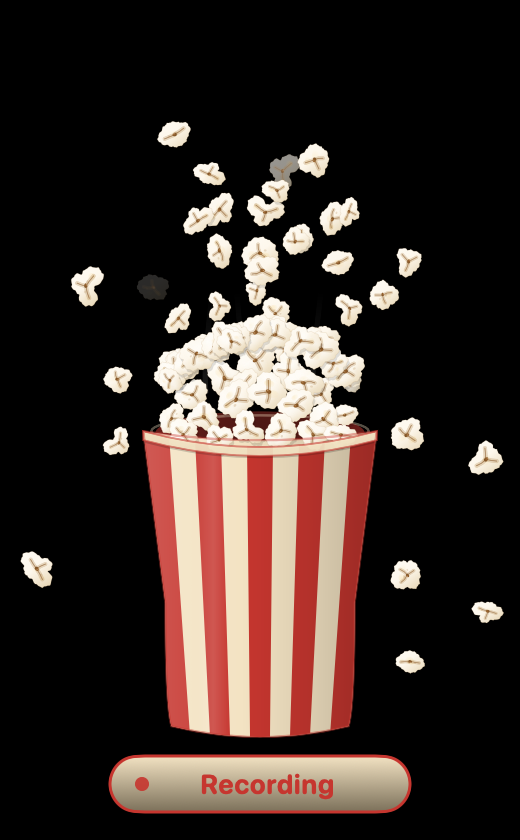
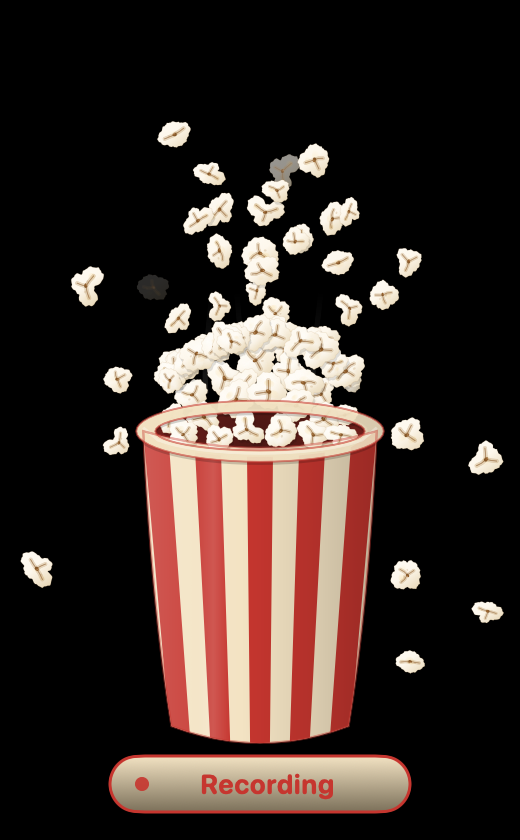
Draw the popcorn mascot as a movie-theater tub
The HUD mascot was a folded paper bag: pinched sides, scalloped rolled
lip, parabolic front mouth. Replace it with a tub — elliptical rim,
straight walls with a slight outward bow, narrower rounded base — and
swap the scalloped lip for a rolled elliptical rim band. The interior
and rear-rim ellipses now key off the rim's inner opening so the mouth
reads as one shape.

Tunables: drop toothCount/toothH, add rimRy, rimOverhang, rimBand.

Regenerate docs/visuals popcorn frames and rebuild the README demo.gif
from the popcorn capture (it was showing the beagle mascot).

Changed region(s): [[0.2462, 0.4643, 0.7385, 0.8357], [0.3385, 0.8667, 0.6462, 0.8976]]

diff --git a/PopcornHUD/Sources/PopcornArt/PopcornRenderer.swift b/PopcornHUD/Sources/PopcornArt/PopcornRenderer.swift
@@ -122,7 +122,7 @@ public enum PopcornRenderer {
         // slight stretch instead of freezing at rest, so there is no hitch at the zero crossing.
         let kick = scene.reduceMotion ? 0 : CGFloat(scene.kick)
         let squashOnly = max(0, kick)
-        let mouthSag: CGFloat = 8
+        let mouthSag = Tunables.rimRy
 
         drawHaze(ctx: &ctx, cx: cx, bagTop: bagTop, scene: scene)
         drawFlying(ctx: &ctx, front: false, scene: scene)
@@ -198,12 +198,14 @@ public enum PopcornRenderer {
             layer.fill(bag, with: .color(.black.opacity(0.14)))
         }
 
-        // Dark interior / rear ellipse behind heap
+        // Dark interior / rear ellipse behind heap — matches the rim's inner opening
+        let innerRx = Tunables.mouthHalf - Tunables.rimBand
+        let innerRy = max(2, mouthSag - Tunables.rimBand * 0.55)
         let interiorRect = CGRect(
-            x: cx - Tunables.mouthHalf + 6,
-            y: bagTop - 10,
-            width: Tunables.mouthHalf * 2 - 12,
-            height: 22
+            x: cx - innerRx,
+            y: bagTop - innerRy,
+            width: innerRx * 2,
+            height: innerRy * 2
         )
         ctx.fill(
             Path(ellipseIn: interiorRect),
@@ -214,16 +216,16 @@ public enum PopcornRenderer {
                 ]),
                 center: CGPoint(x: cx, y: bagTop + 2),
                 startRadius: 0,
-                endRadius: Tunables.mouthHalf
+                endRadius: innerRx
             )
         )
         // Rear rim highlight
         var rearRim = Path()
         rearRim.addEllipse(in: CGRect(
-            x: cx - Tunables.mouthHalf + 4,
-            y: bagTop - 8,
-            width: Tunables.mouthHalf * 2 - 8,
-            height: 16
+            x: cx - innerRx - 1,
+            y: bagTop - innerRy - 1,
+            width: (innerRx + 1) * 2,
+            height: (innerRy + 1) * 2
         ))
         ctx.stroke(rearRim, with: .color(PaletteUI.bagCream.opacity(0.35)), lineWidth: 1.2)
 
@@ -312,8 +314,8 @@ public enum PopcornRenderer {
             )
         }
 
-        // Rolled scalloped front lip
-        drawScallopedLip(ctx: &ctx, cx: cx, bagTop: bagTop, mouthSag: mouthSag)
+        // Rolled rim
+        drawRimBand(ctx: &ctx, cx: cx, bagTop: bagTop, mouthSag: mouthSag)
 
         ctx.stroke(bag, with: .color(PaletteUI.bagRed.opacity(0.40)), lineWidth: 1.2)
     }
@@ -329,87 +331,82 @@ public enum PopcornRenderer {
     }
 
     private static func mouthY(bagTop: CGFloat, sag: CGFloat, t: CGFloat) -> CGFloat {
-        // Parabolic sag of front lip (0 at edges, sag at center).
-        let u = t * 2 - 1
-        return bagTop + sag * (1 - u * u)
+        // Front half of the rim ellipse: 0 at the sides, `sag` at the center.
+        let u = min(1, max(-1, t * 2 - 1))
+        return bagTop + sag * sqrt(1 - u * u)
     }
 
+    /// Movie-theater tub: elliptical rim, straight walls with a slight outward bow,
+    /// narrower rounded base.
     private static func bagPath(cx: CGFloat, bagTop: CGFloat, bagBottom: CGFloat, mouthSag: CGFloat) -> Path {
         var p = Path()
         let topL = CGPoint(x: cx - Tunables.mouthHalf, y: bagTop)
         let topR = CGPoint(x: cx + Tunables.mouthHalf, y: bagTop)
-        let midL = CGPoint(x: cx - Tunables.baseHalf - Tunables.sidePinch, y: bagTop + Tunables.bagH * 0.55)
-        let midR = CGPoint(x: cx + Tunables.baseHalf + Tunables.sidePinch, y: bagTop + Tunables.bagH * 0.55)
         let botL = CGPoint(x: cx - Tunables.baseHalf, y: bagBottom - Tunables.baseCorner)
         let botR = CGPoint(x: cx + Tunables.baseHalf, y: bagBottom - Tunables.baseCorner)
+        // Walls taper straight from rim to base; the control sits just outside the
+        // midpoint of that line so the side reads as a shallow bow, not a pinch.
+        let wallMidX = (Tunables.mouthHalf + Tunables.baseHalf) / 2 + Tunables.sidePinch
+        let wallMidY = bagTop + Tunables.bagH * 0.55
 
         p.move(to: topL)
-        // Curved front mouth (sagging lip)
-        p.addQuadCurve(
-            to: topR,
-            control: CGPoint(x: cx, y: bagTop + mouthSag * 1.15)
-        )
-        p.addLine(to: midR)
-        p.addQuadCurve(to: botR, control: CGPoint(x: midR.x, y: bagBottom - Tunables.baseCorner - 10))
-        p.addQuadCurve(to: botL, control: CGPoint(x: cx, y: bagBottom + 2))
-        p.addQuadCurve(to: midL, control: CGPoint(x: midL.x, y: bagBottom - Tunables.baseCorner - 10))
+        // Front half of the rim ellipse.
+        p.addQuadCurve(to: topR, control: CGPoint(x: cx, y: bagTop + mouthSag * 1.30))
+        p.addQuadCurve(to: botR, control: CGPoint(x: cx + wallMidX, y: wallMidY))
+        // Shallow base ellipse.
+        p.addQuadCurve(to: botL, control: CGPoint(x: cx, y: bagBottom + Tunables.baseCorner * 0.9))
+        p.addQuadCurve(to: topL, control: CGPoint(x: cx - wallMidX, y: wallMidY))
         p.closeSubpath()
         return p
     }
 
-    private static func drawScallopedLip(
+    /// Rolled rim: an elliptical ring around the mouth, overhanging the wall.
+    private static func drawRimBand(
         ctx: inout GraphicsContext,
         cx: CGFloat,
         bagTop: CGFloat,
         mouthSag: CGFloat
     ) {
-        let toothCount = Tunables.toothCount
-        var lip = Path()
-        let rimH: CGFloat = 4.5
+        let outerRx = Tunables.mouthHalf + Tunables.rimOverhang
+        let outerRy = mouthSag + Tunables.rimOverhang * 0.7
+        let innerRx = Tunables.mouthHalf - Tunables.rimBand
+        let innerRy = max(2, mouthSag - Tunables.rimBand * 0.55)
 
-        // Band along mouth curve
-        for i in 0...toothCount {
-            let t = CGFloat(i) / CGFloat(toothCount)
-            let x = mouthX(cx: cx, t: t)
-            let y = mouthY(bagTop: bagTop, sag: mouthSag, t: t)
-            if i == 0 {
-                lip.move(to: CGPoint(x: x, y: y))
-            } else {
-                lip.addLine(to: CGPoint(x: x, y: y))
-            }
-        }
-        // Scalloped underside
-        for i in stride(from: toothCount, through: 0, by: -1) {
-            let t = CGFloat(i) / CGFloat(toothCount)
-            let x = mouthX(cx: cx, t: t)
-            let baseY = mouthY(bagTop: bagTop, sag: mouthSag, t: t)
-            let scallop: CGFloat
-            if i == 0 || i == toothCount {
-                scallop = 0
-            } else {
-                // Rounded peaks between teeth
-                let local = (t * CGFloat(toothCount)).truncatingRemainder(dividingBy: 1)
-                let mid = abs(local - 0.5) * 2 // 0 at mid-tooth, 1 at edges
-                scallop = Tunables.toothH * (1 - mid * mid)
-            }
-            lip.addLine(to: CGPoint(x: x, y: baseY + rimH + scallop))
-        }
-        lip.closeSubpath()
+        var ring = Path()
+        ring.addEllipse(in: CGRect(
+            x: cx - outerRx, y: bagTop - outerRy,
+            width: outerRx * 2, height: outerRy * 2
+        ))
+        ring.addEllipse(in: CGRect(
+            x: cx - innerRx, y: bagTop - innerRy,
+            width: innerRx * 2, height: innerRy * 2
+        ))
+        let evenOdd = FillStyle(eoFill: true)
 
-        // Soft shadow under rim
+        // Soft shadow under the rim
         ctx.drawLayer { layer in
-            layer.translateBy(x: 0, y: 1.2)
-            layer.fill(lip, with: .color(.black.opacity(0.18)))
+            layer.translateBy(x: 0, y: 1.6)
+            layer.fill(ring, with: .color(.black.opacity(0.18)), style: evenOdd)
         }
-        ctx.fill(lip, with: .linearGradient(
+        ctx.fill(ring, with: .linearGradient(
             Gradient(colors: [
                 PaletteUI.bagCream,
-                PaletteUI.bagCream.opacity(0.92),
+                PaletteUI.bagCream.opacity(0.88),
             ]),
-            startPoint: CGPoint(x: cx, y: bagTop - 2),
-            endPoint: CGPoint(x: cx, y: bagTop + rimH + Tunables.toothH)
-        ))
-        ctx.stroke(lip, with: .color(PaletteUI.bagRed.opacity(0.55)), lineWidth: 1)
+            startPoint: CGPoint(x: cx - outerRx, y: bagTop - outerRy),
+            endPoint: CGPoint(x: cx + outerRx, y: bagTop + outerRy)
+        ), style: evenOdd)
+        ctx.stroke(ring, with: .color(PaletteUI.bagRed.opacity(0.55)), lineWidth: 1)
+
+        // Specular along the top of the roll, front half only.
+        var gleam = Path()
+        for i in 0...16 {
+            let t = CGFloat(i) / 16
+            let x = mouthX(cx: cx, t: t)
+            let y = mouthY(bagTop: bagTop, sag: mouthSag, t: t) - Tunables.rimBand * 0.30
+            if i == 0 { gleam.move(to: CGPoint(x: x, y: y)) } else { gleam.addLine(to: CGPoint(x: x, y: y)) }
+        }
+        ctx.stroke(gleam, with: .color(.white.opacity(0.30)), lineWidth: 1.4)
     }
 
     // MARK: - Flying / haze / capsule

diff --git a/PopcornHUD/Sources/PopcornCore/Tunables.swift b/PopcornHUD/Sources/PopcornCore/Tunables.swift
@@ -16,8 +16,12 @@ public enum Tunables {
     public static let baseHalf: CGFloat = 44
     public static let baseCorner: CGFloat = 9
     public static let sidePinch: CGFloat = 3
-    public static let toothCount = 10
-    public static let toothH: CGFloat = 5
+    /// Vertical radius of the tub's rim ellipse (front lip dips `rimRy` below `bagTop`).
+    public static let rimRy: CGFloat = 13
+    /// How far the rolled rim overhangs the tub wall.
+    public static let rimOverhang: CGFloat = 3.5
+    /// Thickness of the rim band measured inward from the wall.
+    public static let rimBand: CGFloat = 6
     public static let stripeCount = 9
     public static let capsuleW: CGFloat = 150
     public static let capsuleH: CGFloat = 28

diff --git a/docs/visuals/popcorn-polish-check.md b/docs/visuals/popcorn-polish-check.md
@@ -1,4 +1,4 @@
-# Popcorn voice-polish verification — 2026-09-10T03:19:11Z
+# Popcorn voice-polish verification — 2026-09-10T04:27:17Z
 
 Production HUD remains Canvas-only. Beagle captures use the fixed 260×420 point scene at
 actual size and 4× review scale; the beagle path uses only dog geometry and restrained motion.
@@ -11,9 +11,9 @@ actual size and 4× review scale; the beagle path uses only dog geometry and res
 - Seed 2026 sequence: quiet 0.035 (2 s), normal 0.12 (2 s), loud 0.28 (3 s),
   accents (2 s), silence (1 s). Light and dark backgrounds.
 - Peak kernel count in capture: 27 (cap 120).
-- Full sequence wall time (sim only path above): 127.1 ms.
-- Offscreen Canvas renders (2× light+dark pair): median 1.81 ms,
-  95th 1.96 ms. These are ImageRenderer measurements,
+- Full sequence wall time (sim only path above): 142.2 ms.
+- Offscreen Canvas renders (2× light+dark pair): median 1.62 ms,
+  95th 1.72 ms. These are ImageRenderer measurements,
   **not** live display/compositor frame timings and **not** microphone-to-screen latency.
 - Packet-to-render path is one display tick after `consumePeak` (held level between
   packets; onset only on fresh). Mic → Voxtype → socket → HUD is unmeasured here.
